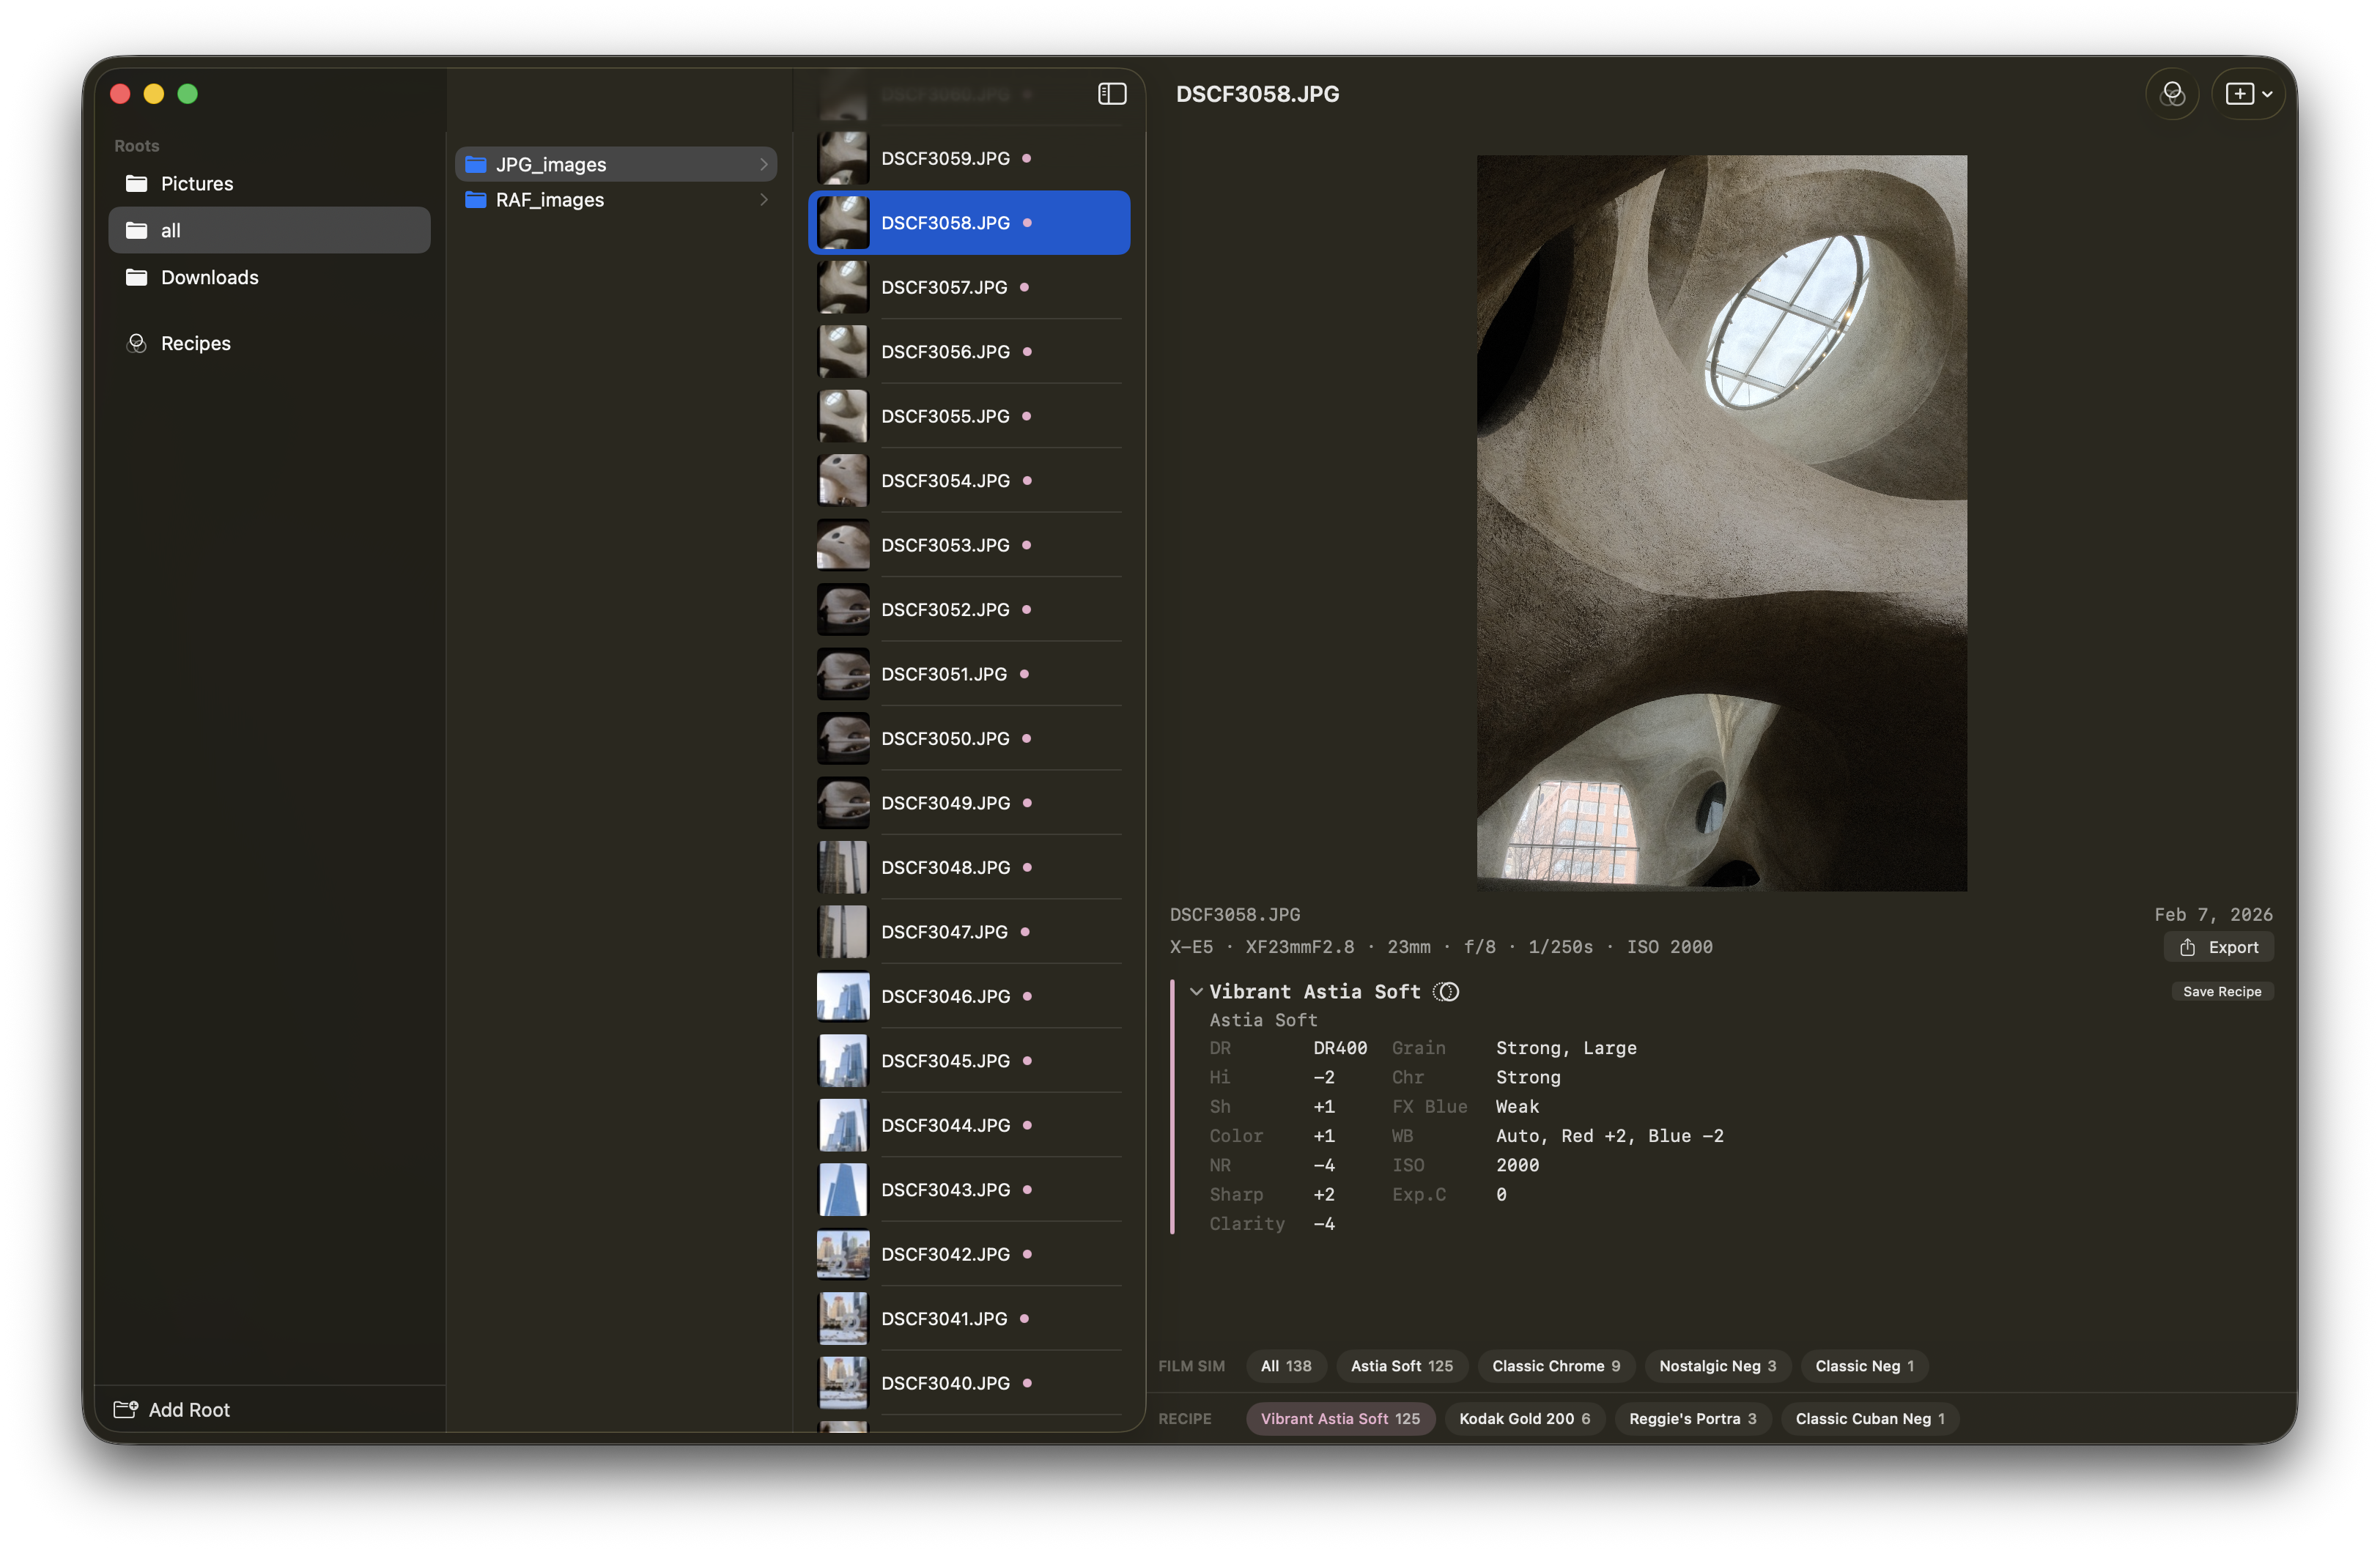
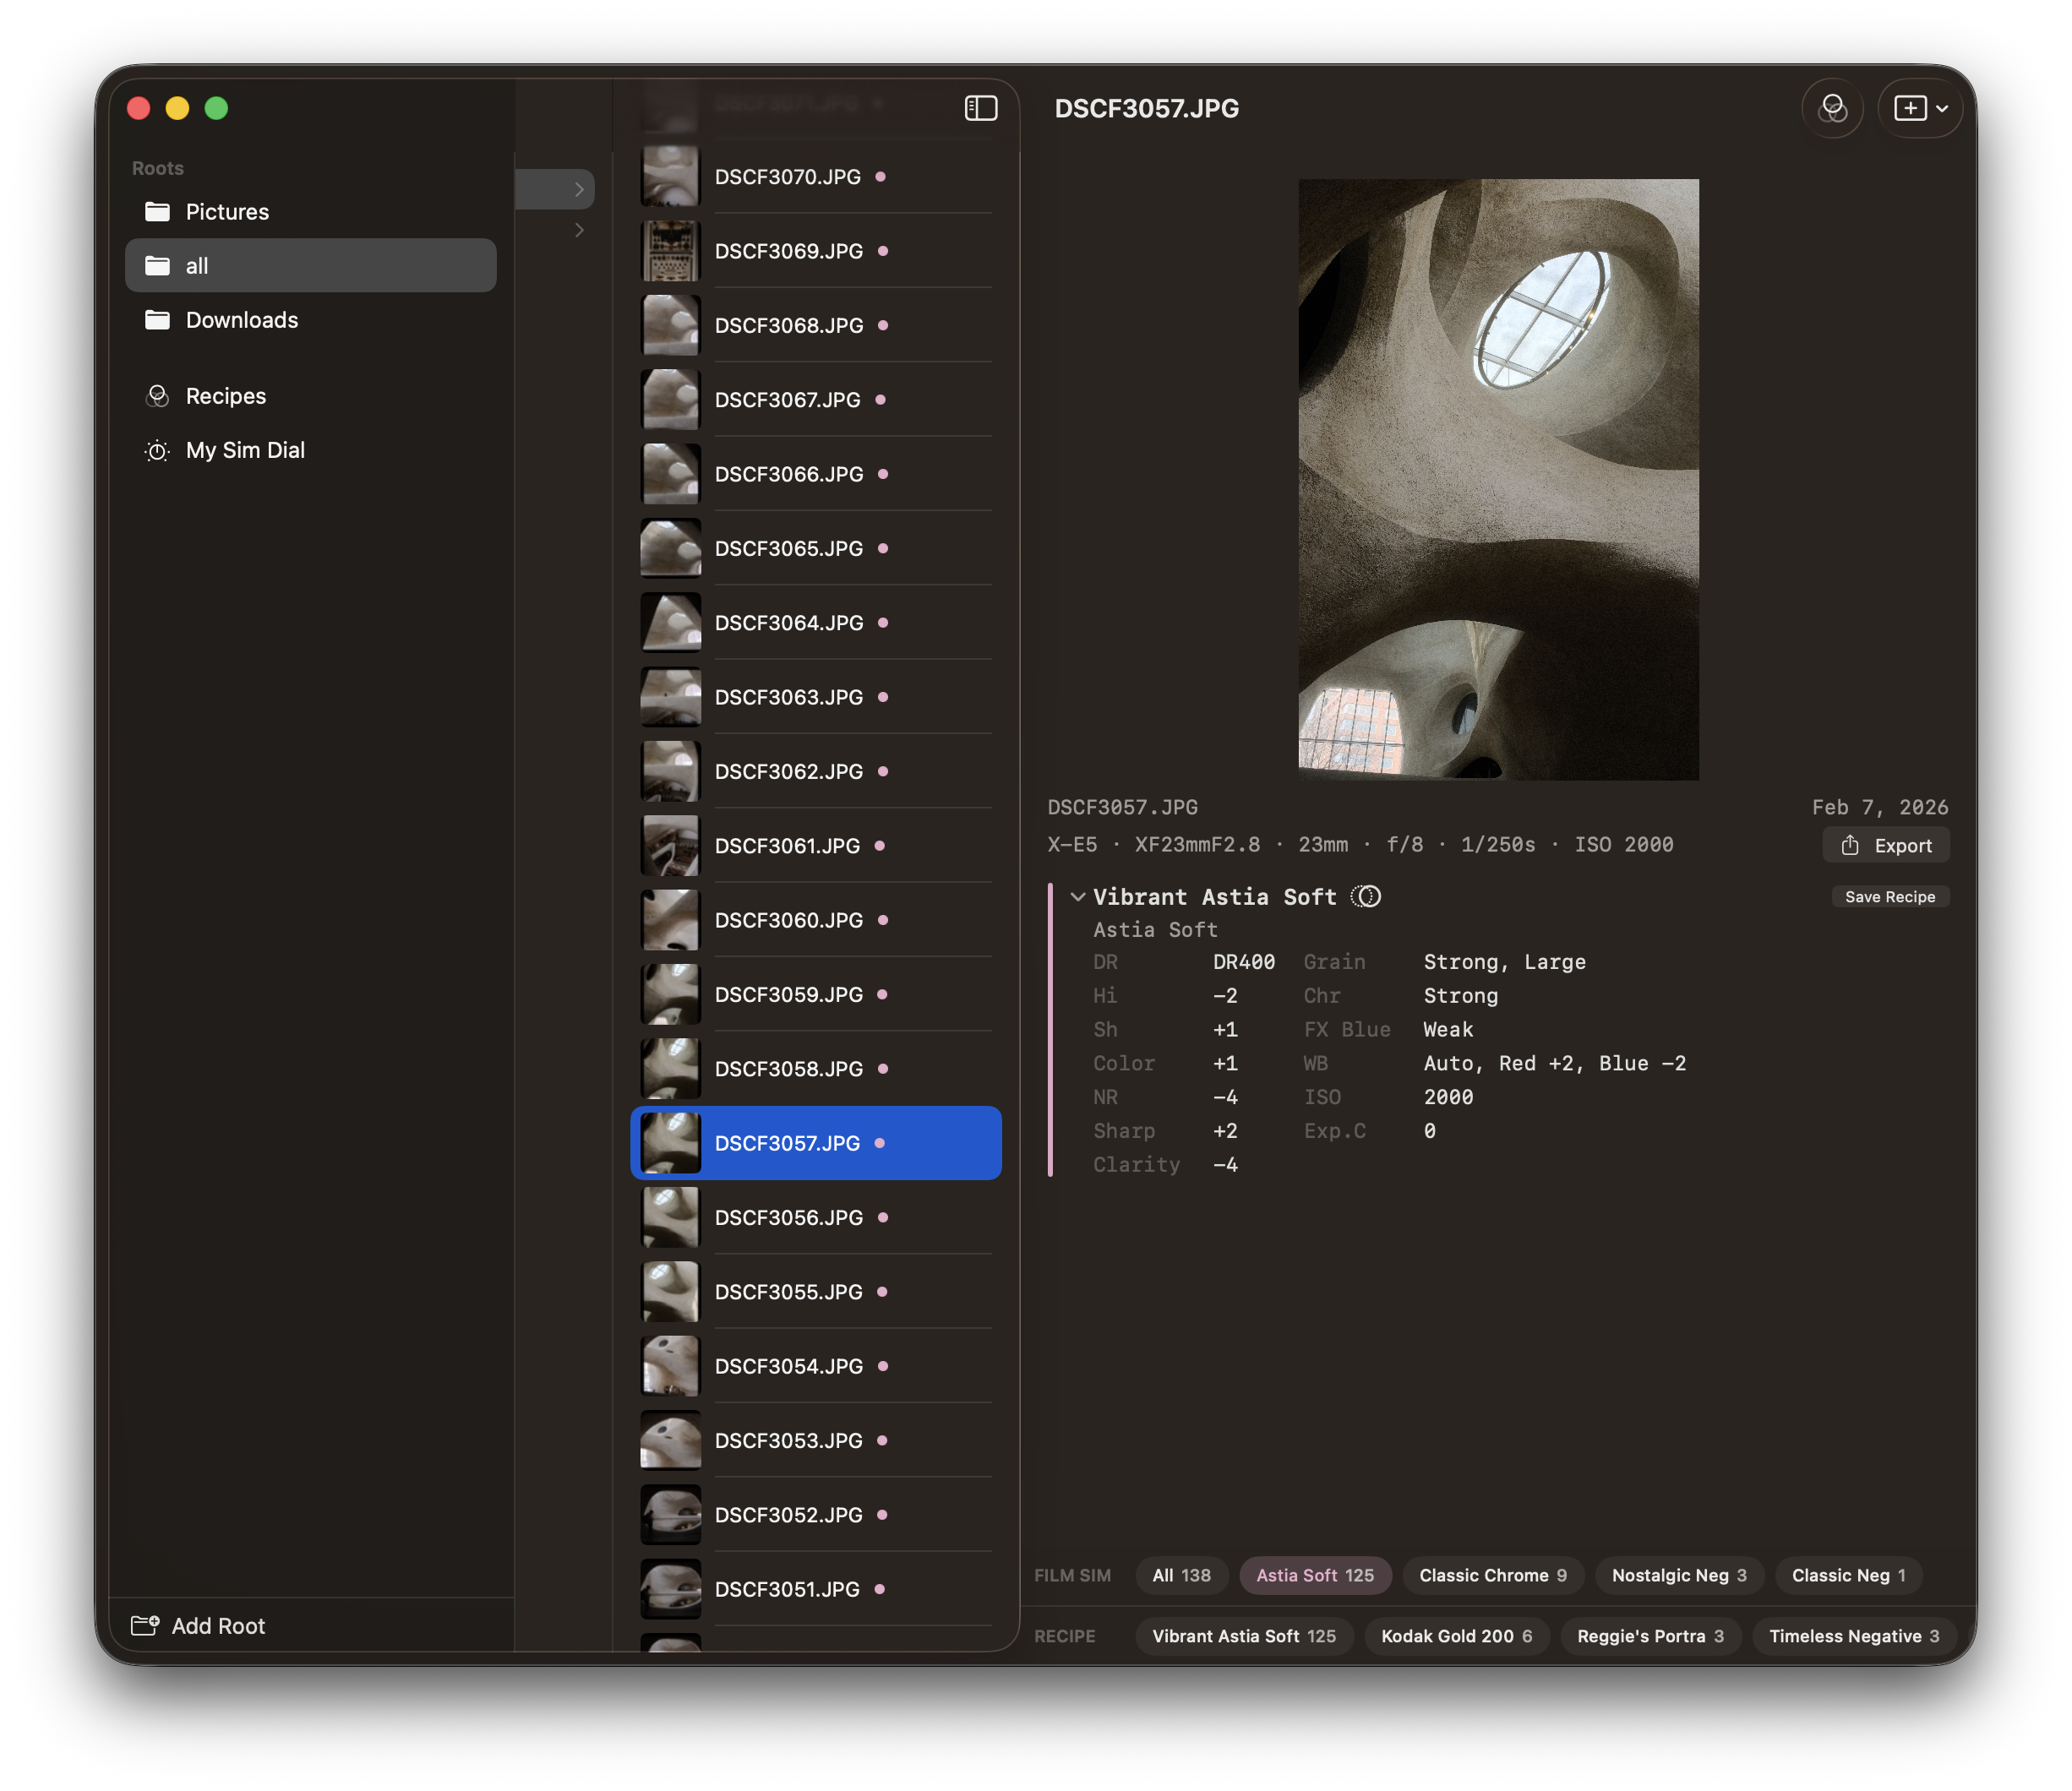
feat: add figcaption to recipe screenshots, fix mobile intro gap
- Replace span.image.main + p pairs with figure/figcaption for semantic captions
- Fix 100vh intro content height creating dead space on mobile
- Update browse/recipes images and remove one gallery photo
- Clean up index.html links to use directory paths

diff --git a/inkframe/index.html b/inkframe/index.html
@@ -61,14 +61,22 @@
 								<li class="icon solid fa-camera" data-detail="Recipes are tied to specific Fujifilm sensor generations. InkFrame knows which X-Trans and Bayer generations support each film simulation, so your library stays accurate." data-row="2">Sensor generation awareness</li>
 								<li class="feature-detail-row" data-row="2"></li>
 							</ul>
-							<span class="image main"><img src="images/recipes.jpg" alt="InkFrame recipes" /></span>
+							<figure class="image main">
+								<img src="images/feat-recipe.png" alt="InkFrame recipes" />
+								<figcaption>Recipe cards for dialing in settings.</figcaption>
+							</figure>
+							<figure class="image main">
+								<img src="images/feat-fs.png" alt="InkFrame recipe reference" />
+								<figcaption>Load up your FS references.</figcaption>
+							</figure>
+
 						</div>
 					</section>
 
 				<!-- Section — Export -->
 					<section>
 						<header>
-							<h2>Every border tells the story</h2>
+							<h2>Every border tells a story</h2>
 						</header>
 						<div class="content">
 							<p>Export with Polaroid border.  Camera, lens, settings, film simulation name, and color palette swatches composited in.</p>
@@ -108,7 +116,7 @@
 
 				<!-- Copyright -->
 					<div class="copyright">
-						<a href="../index.html">&larr; Eric Brock</a> &nbsp;&bull;&nbsp;
+						<a href="../">&larr; Eric Brock</a> &nbsp;&bull;&nbsp;
 						&copy; Eric Brock. Built on <a href="https://html5up.net">Paradigm Shift</a>.
 					</div>
 

diff --git a/inkframe/assets/css/main.css b/inkframe/assets/css/main.css
@@ -3950,6 +3950,13 @@ input, select, textarea {
 	box-shadow: 0 6px 32px rgba(0, 0, 0, 0.6);
 }
 
+figcaption {
+	margin-top: 0.6rem;
+	font-size: 0.8em;
+	color: rgba(255, 255, 255, 0.5);
+	text-align: center;
+}
+
 /* Portrait screenshot — centered, constrained width */
 .image.main.portrait {
 	max-width: 420px;
@@ -3971,6 +3978,9 @@ input, select, textarea {
 }
 
 @media screen and (max-width: 736px) {
+	#wrapper > section.intro > .content {
+		height: auto;
+	}
 	.image-pair {
 		flex-direction: column;
 		gap: 1rem;

diff --git a/inkframe/gallery/index.html b/inkframe/gallery/index.html
@@ -70,17 +70,12 @@
 							<h2></h2>
 							<p></p>
 						</article>
-						<article>
-							<a class="thumbnail" href="images/fulls/DSCF0245_border.jpg" data-inkframe="true"><img src="images/thumbs/DSCF0245_border.jpg" alt="" /></a>
-							<h2></h2>
-							<p></p>
-						</article>
 					</section>
 
 				<!-- Footer -->
 					<footer id="footer">
 						<ul class="copyright">
-							<li><a href="../../index.html">&larr; Eric Brock</a></li>
+							<li><a href="../../">&larr; Eric Brock</a></li>
 							<li>&copy; Eric Brock.</li>
 							<li>Built on <a href="http://html5up.net">Lens</a> by HTML5 UP.</li>
 						</ul>

diff --git a/index.html b/index.html
@@ -48,7 +48,7 @@
 				</div>
 
 				<div class="apps">
-					<a class="app-card" href="inkleaf/index.html">
+					<a class="app-card" href="inkleaf/">
 						<img src="assets/images/inkleaf.png" alt="" />
 						<div class="app-text">
 							<div class="app-title-row">
@@ -58,7 +58,7 @@
 							<p>A reading journal for the quotes you want to remember.</p>
 						</div>
 					</a>
-					<a class="app-card" href="inkframe/index.html">
+					<a class="app-card" href="inkframe/">
 						<img src="assets/images/inkframe.png" alt="" />
 						<div class="app-text">
 							<div class="app-title-row">
@@ -68,7 +68,7 @@
 							<p>A photo browser for Fuji shooters, organized around film recipes.</p>
 						</div>
 					</a>
-					<a class="app-card" href="photography/index.html">
+					<a class="app-card" href="photography/">
 						<span class="app-card-icon icon solid fa-camera"></span>
 						<div class="app-text">
 							<div class="app-title-row">

diff --git a/inkleaf/index.html b/inkleaf/index.html
@@ -88,7 +88,7 @@
 
 				<!-- Copyright -->
 					<div class="copyright">
-						<a href="../index.html">&larr; Eric Brock</a> &nbsp;&bull;&nbsp;
+						<a href="../">&larr; Eric Brock</a> &nbsp;&bull;&nbsp;
 						&copy; Eric Brock. Built on <a href="https://html5up.net">Paradigm Shift</a>.
 					</div>
 

diff --git a/photography/index.html b/photography/index.html
@@ -78,7 +78,7 @@
 				<!-- Footer -->
 					<footer id="footer">
 						<ul class="copyright">
-							<li><a href="../index.html">&larr; Eric Brock</a></li>
+							<li><a href="../">&larr; Eric Brock</a></li>
 							<li>&copy; Eric Brock.</li>
 							<li>Built on <a href="http://html5up.net">Lens</a> by HTML5 UP.</li>
 						</ul>